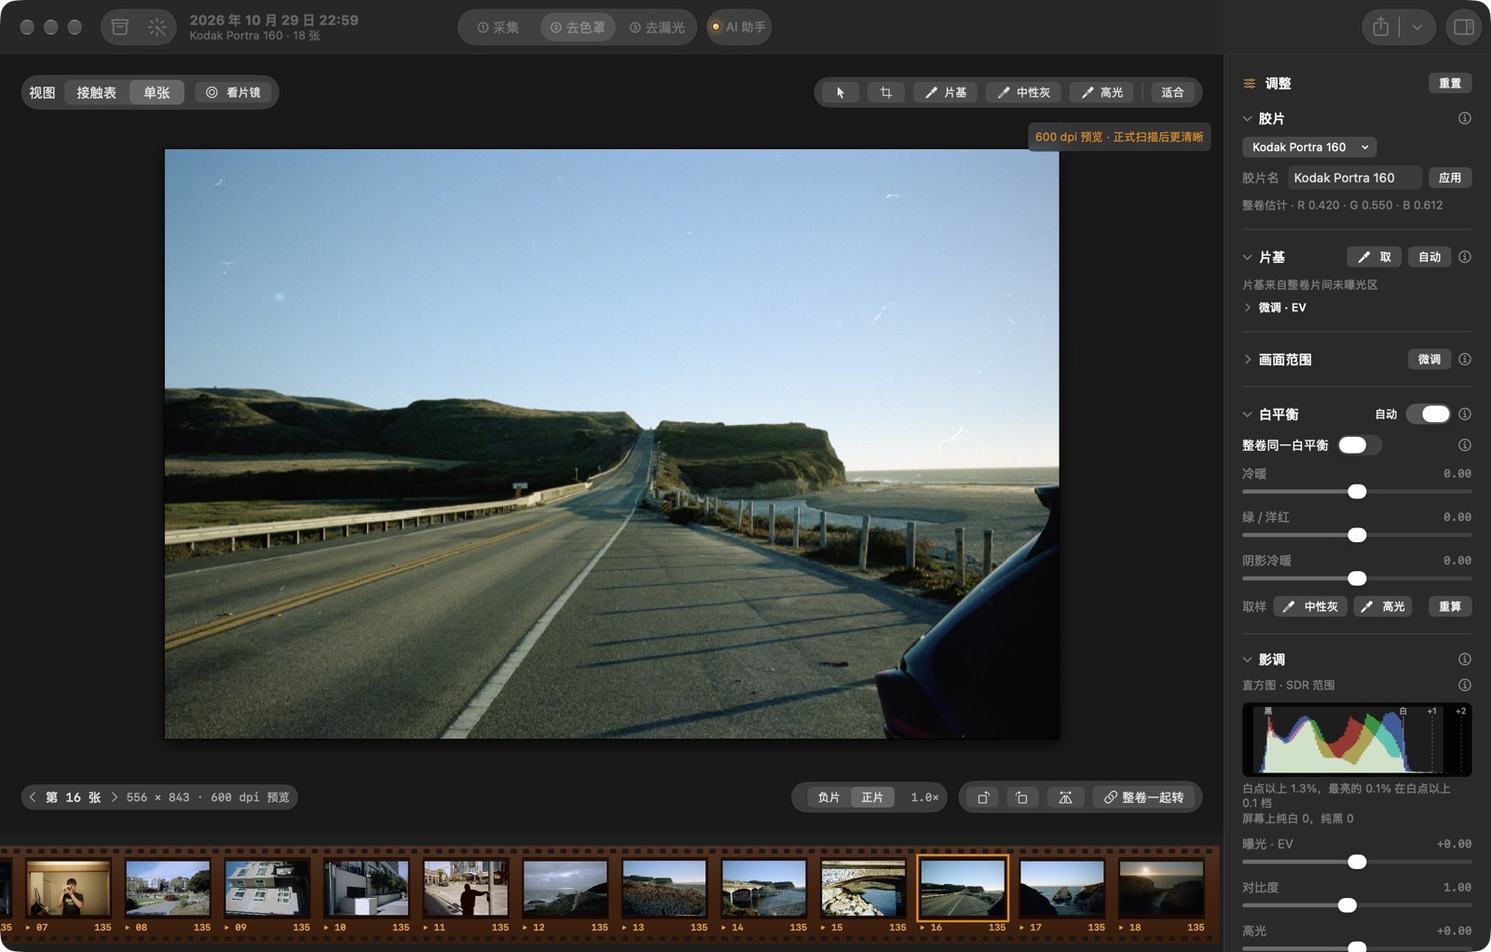
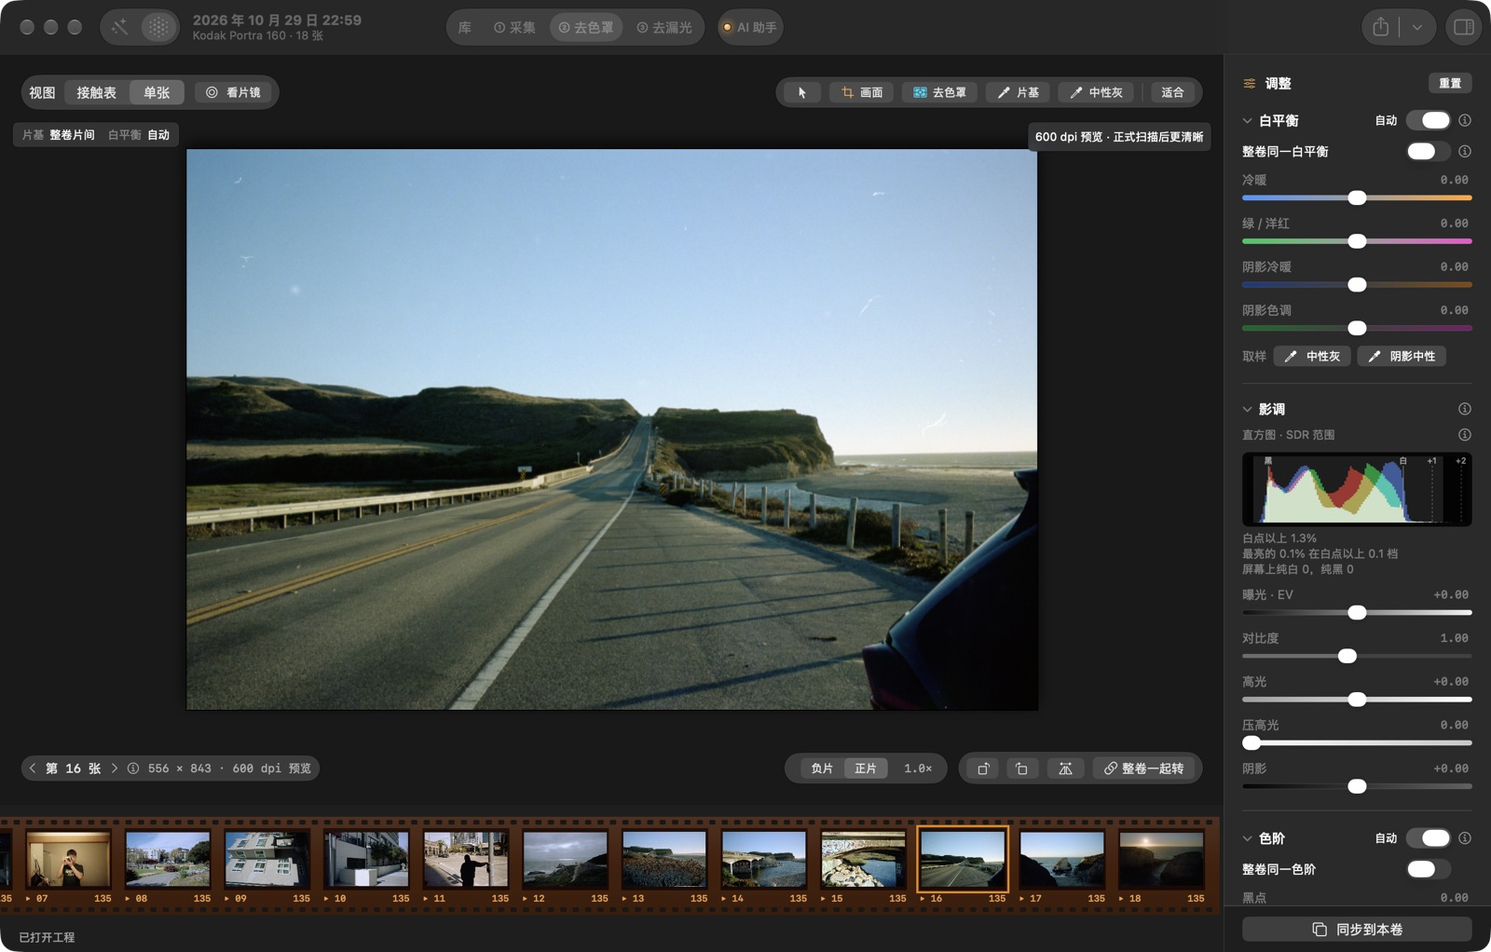
README with a picture for each feature; the screenshot tool takes them
- 一览: twelve features two to a row, each a picture and a line: the library, the film shelf, ① scanning, a copy roll's light table, ② with its inspector, the two crops, dust, the curves, the loupe, ③, the scan head and the shortcuts.
- Tools/Screenshots.swift also takes capture, copy-table (the Phoenix 6×6 copy roll), crop-region, dust, curves (a medium-contrast S for the shot), shelf and shortcuts; the pre-push hook retakes them with the rest.
- The README brought up to date: 0.18.7, the shelf in 新建工程 and the quick start, the tools (M for the de-masking region, no highlight picker), the inspector's sections and sync key, new shortcuts (⇧⌘D, ⌘I, ⇧⌘A, ⌘/).

diff --git a/Tools/Screenshots.swift b/Tools/Screenshots.swift
@@ -16,6 +16,9 @@ import UniformTypeIdentifiers
 /// - A shot that looks like the file already there (a mean difference under 1/255) leaves that
 ///   file as it is, so a rebuild does not rewrite every JPEG.
 /// - The close-ups (the scan head, the loupes, the crop glass) are drawn by hand and not taken here.
+/// - The README's features each have a picture: the film shelf, ① with the scanner, a copy roll's
+///   light table, the two crops, dust, the curves and the shortcuts, cut from the window where only
+///   a part of it says what the feature is. The copy roll is the user's Phoenix 6×6 roll.
 final class ShotWindow: NSWindow {
   override func constrainFrameRect(_ frameRect: NSRect, to screen: NSScreen?) -> NSRect { frameRect }
   override var canBecomeKey: Bool { true }
@@ -33,6 +36,8 @@ struct ShotFailure: Error { let message: String }
     "2026-10-29_225926_1C87", "2026-10-29_222948_DEF0", "2026-10-29_204224_C6F9",
     "2026-10-29_092428_7497", "2026-10-28_210643_FE21", "2026-10-28_200224_0E3A",
   ]
+  /// A copy roll from the A7R IV: Harman Phoenix II 200 in 6×6, with dust found on its first frame.
+  static let copyRoll = "2026-11-07_132152_9EA1"
   static let size = NSSize(width: 1440, height: 920)
 
   static func pump(_ seconds: Double) { RunLoop.main.run(until: Date().addingTimeInterval(seconds)) }
@@ -142,6 +147,18 @@ struct ShotFailure: Error { let message: String }
       model.status = text
       pump(0.4)
     }
+    /// The inspector's sections opened or folded for a shot (their own switches, in this tool's
+    /// standard defaults), and put back after.
+    func sections(_ open: [String: Bool]) -> () -> Void {
+      let was = open.keys.map { ($0, standard.object(forKey: "panelSection." + $0)) }
+      for (key, on) in open { standard.set(on, forKey: "panelSection." + key) }
+      return { for (key, value) in was { if let value { standard.set(value, forKey: "panelSection." + key) } else { standard.removeObject(forKey: "panelSection." + key) } } }
+    }
+    /// The middle of the window and the inspector beside it, below the window's own buttons.
+    func workArea(_ c: Picture.Columns) -> CGRect {
+      let right = c.inspector?.maxX ?? c.middle.maxX
+      return CGRect(x: c.middle.minX, y: 46, width: right - c.middle.minX, height: c.middle.height - 46)
+    }
     var changed = [String]()
     func save(_ image: CGImage, _ name: String, width: Int) throws {
       if try Picture.save(image, to: out.appendingPathComponent(name), width: width) { changed.append(name) }
@@ -159,6 +176,7 @@ struct ShotFailure: Error { let message: String }
     settle()
     let capturePanel = try Picture.capture(window, work: work)
     let captureColumns = Picture.columns(window)
+    try save(capturePanel, "capture.jpg", width: 1600)
 
     // ② taking the mask off: the light table, the loupe on 16.
     model.page = .convert
@@ -197,8 +215,61 @@ struct ShotFailure: Error { let message: String }
     model.showSingle(true)
     settle(2)
     try save(try Picture.capture(window, work: work), "single-view.jpg", width: 1600)
+
+    // The curves open over the frame's histograms, the sections above them folded.
+    let curvesBack = sections(["balance": false, "tone": false, "levels": false, "colour": false, "dust": false, "curves": true])
+    let keptCurves = model.settings.curves
+    let medium = CurveEditor.presets.first { $0.name == "中对比" }?.levels ?? []
+    model.change("曲线") { $0.curves = ToneCurves(rgb: CurveEditor.preset(medium)) }
+    settle(2)
+    let curves = try Picture.capture(window, work: work)
+    if let cut = Picture.crop(curves, to: workArea(Picture.columns(window)), window: window) { try save(cut, "curves.jpg", width: 1400) }
+    model.change("曲线") { $0.curves = keptCurves }
+    curvesBack()
+    settle()
+
+    // The keys, in their sheet.
+    model.showShortcuts = true
+    settle(1.5)
+    if let sheet = window.attachedSheet { try save(try Picture.capture(sheet, work: work), "shortcuts.jpg", width: 1400) }
+    model.showShortcuts = false
+    settle()
     model.showSingle(false)
     settle()
+
+    // A copy roll: its light table, the two crops on a frame, and the dust found on another.
+    let copyURL = library.appendingPathComponent(copyRoll).appendingPathComponent(AppModel.projectFile)
+    if files.fileExists(atPath: copyURL.path) {
+      model.loadProject(copyURL)
+      model.page = .convert
+      settle(3)
+      // Every frame converted, not the first few over black cells.
+      var waited = 0.0
+      while model.positivesLoading != nil && waited < 120 { pump(0.5); waited += 0.5 }
+      settle(2)
+      try save(try Picture.capture(window, work: work), "copy-table.jpg", width: 1600)
+      select("03")
+      model.showSingle(true)
+      settle(2)
+      model.preferences.showDustMarks = false
+      model.tool = .region
+      settle(1.5)
+      let region = try Picture.capture(window, work: work)
+      if let cut = Picture.crop(region, to: workArea(Picture.columns(window)), window: window) { try save(cut, "crop-region.jpg", width: 1400) }
+      model.tool = .select
+      model.preferences.showDustMarks = true
+      let dustBack = sections(["balance": false, "tone": false, "levels": false, "colour": false, "dust": true])
+      select("01")
+      settle(3)
+      let dust = try Picture.capture(window, work: work)
+      if let cut = Picture.crop(dust, to: workArea(Picture.columns(window)), window: window) { try save(cut, "dust.jpg", width: 1400) }
+      dustBack()
+      model.showSingle(false)
+      // Back to the sea roll for the library and the leak page.
+      model.loadProject(rollURL.appendingPathComponent(AppModel.projectFile))
+      model.page = .convert
+      settle(2)
+    }
 
     // The library, the window's first tab, of the shelf's rolls only; the library, the module and
     // the status line put back after.
@@ -208,6 +279,15 @@ struct ShotFailure: Error { let message: String }
     settle(3)
     guard model.page == .library else { throw ShotFailure(message: "库没有打开") }
     try save(try Picture.capture(window, work: work), "library.jpg", width: 1600)
+    // 新建工程's film shelf, over the library.
+    let keptProfiles = model.profiles
+    model.profiles = FilmProfile.builtins
+    model.askNewProject()
+    settle(3)
+    if let sheet = window.attachedSheet { try save(try Picture.capture(sheet, work: work), "shelf.jpg", width: 1400) }
+    model.askingNewProject = false
+    model.profiles = keptProfiles
+    settle()
     model.page = .convert
     model.setLibrary(library)
     model.status = status

diff --git a/README.md b/README.md
@@ -5,15 +5,16 @@
 <h1 align="center">Epson Scan plus</h1>
 
 <p align="center">
-  在 macOS 上扫描和转换彩色负片与反转片<br>
+  在 macOS 上扫描、翻拍和转换彩色负片与反转片<br>
   为 Epson Perfection V800 / V850 设计，也能用 Sony A7R IV 联机翻拍
 </p>
 
 <p align="center">
-  <b>0.12.0</b> · macOS 26 · Apple 芯片 · 全部在本机处理
+  <b>0.18.7</b> · macOS 26 · Apple 芯片 · 全部在本机处理
 </p>
 
 <p align="center">
+  <a href="#一览">一览</a> ·
   <a href="#快速开始">快速开始</a> ·
   <a href="#功能">功能</a> ·
   <a href="doc/interface.md">界面说明</a> ·
@@ -23,14 +24,43 @@
 
 ![主界面：② 去色罩，接触表放在灯箱上，看片镜放在所选的第 16 张上](doc/images/main-window.jpg)
 
-48-bit 线性采集、去色罩、整卷自动估计通道反差、在这台扫描仪上标定的胶片预设、接触表、灯箱上的 3D 看片镜，以及用参考图修复漏光。全部在本机处理；只有去漏光生成参考图时，在你确认后上传一张缩图。
+48-bit 线性扫描和 A7R IV 联机翻拍、去色罩、整卷自动估计通道反差、在这台设备上标定的胶片预设、除尘、接触表、灯箱上的 3D 看片镜，以及用参考图修复漏光。全部在本机处理；只有去漏光生成参考图时，在你确认后上传一张缩图。
 
 > [!NOTE]
 > 个人开发的实验工具，不是 Epson 官方产品。各版本的改动见[版本记录](doc/CHANGELOG.md)。
 
+## 一览
+
+<table>
+<tr>
+<td width="50%" valign="top"><img src="doc/images/library.jpg" width="100%" alt="库"><br><b>库</b>：每卷一页底片保存页，打开过的卷显示正片。同一批底片叠成一摞，能按卷名、胶片、画幅和备注搜索。</td>
+<td width="50%" valign="top"><img src="doc/images/shelf.jpg" width="100%" alt="新建工程的胶片架"><br><b>新建工程 · 胶片架</b>：100 款常见胶片的暗盒和 120 卷，照实物印刷，附厂家数据表。先选胶片、画幅、片边和片种。</td>
+</tr>
+<tr>
+<td valign="top"><img src="doc/images/capture.jpg" width="100%" alt="① 采集：V850 的整幅预览"><br><b>① V850 扫描</b>：48-bit 线性整幅预览，自动识别 135 和 120 的画面，按行合并扫描，扫完自动导出正片。</td>
+<td valign="top"><img src="doc/images/copy-table.jpg" width="100%" alt="翻拍卷的灯箱"><br><b>① A7R IV 翻拍</b>：直连相机的 PTP，支持 4 张或 16 张像素位移。翻拍的卷按画幅排在灯箱上，先去串色、再除以平场。</td>
+</tr>
+<tr>
+<td valign="top"><img src="doc/images/single-view.jpg" width="100%" alt="② 去色罩：单张和检查器"><br><b>② 去色罩</b>：除以片基，按整卷估计或本机标定的通道斜率拉齐三层反差。右栏按调色的顺序排：白平衡、影调、色阶、色彩，每一节都能单独复位。</td>
+<td valign="top"><img src="doc/images/crop-region.jpg" width="100%" alt="画面裁切和去色罩区域"><br><b>两种裁切</b>：琥珀色是显示和导出的画面；青色是算片基、白平衡和色阶的地方，自动避开片边、边字和齿孔。</td>
+</tr>
+<tr>
+<td valign="top"><img src="doc/images/dust.jpg" width="100%" alt="除尘"><br><b>除尘</b>：在负片上找灰尘、毛发和纤维，用旁边的胶片补上，补的地方只会变亮。工具栏的「除尘标出」开关画出或隐藏这些圆圈。</td>
+<td valign="top"><img src="doc/images/curves.jpg" width="100%" alt="曲线"><br><b>曲线</b>：和 Lightroom 一样的参数曲线和 RGB / 单通道点曲线，背后是正片的直方图；也能在照片上直接拖着调。</td>
+</tr>
+<tr>
+<td valign="top"><img src="doc/images/loupe-eyepiece.jpg" width="100%" alt="看片镜"><br><b>看片镜</b>：Pentax、Mamiya、Peak、Rodenstock、Schneider 式的 3D 看片镜，放在灯箱或单张上，按画幅算视场和放大倍率。</td>
+<td valign="top"><img src="doc/images/leak-page.jpg" width="100%" alt="③ 去漏光"><br><b>③ 去漏光</b>：用同一张照片的干净参考图修复红色 / 品红漏光。参考图只指导平滑的色彩校正，输出的像素都来自原片。</td>
+</tr>
+<tr>
+<td valign="top"><img src="doc/images/scan-head.jpg" width="100%" alt="扫描头"><br><b>扫描头</b>：正式扫描时，3D 的扫描头按真实进度从画面上走过，接触表和单张上都看得到。</td>
+<td valign="top"><img src="doc/images/shortcuts.jpg" width="100%" alt="键盘快捷键"><br><b>键盘快捷键</b>：⌘/ 打开一览，包括画面上不在菜单里的单个字母键。</td>
+</tr>
+</table>
+
 ## 目录
 
-- [功能](#功能)
+- [一览](#一览) · [功能](#功能)
 - [系统要求](#系统要求) · [安装与更新](#安装与更新) · [快速开始](#快速开始)
 - [界面一览](#界面一览)（完整的见[界面说明](doc/interface.md)）
 - [库](#库) · [去漏光](#去漏光) · [AI 助手（MCP）](#ai-助手mcp)
@@ -39,14 +69,15 @@
 
 ## 功能
 
-- **库和三个模块**：顶栏中间的分段按钮最左边是库，后面是 ① 采集（V850 扫描、A7R IV 翻拍）、② 去色罩、③ 去漏光。App 打开时在库里，先「新建工程」、双击打开一卷，或「导入…」照片（相机 RAW 导成一卷翻拍），之后才能用 ① ② ③。扫描、翻拍和导入的每一卷都自动放进库里；库是一个档案柜，每卷是一页底片保存页，打开过的卷显示正片，其余显示负片原样。见下文[库](#库)。
+- **库和三个模块**：顶栏中间的分段按钮最左边是库，后面是 ① 采集（V850 扫描、A7R IV 翻拍）、② 去色罩、③ 去漏光。App 打开时在库里，先「新建工程」（在胶片架上选胶片、画幅、片边和片种）、双击打开一卷，或「导入…」照片（相机 RAW 导成一卷翻拍），之后才能用 ① ② ③。扫描、翻拍和导入的每一卷都自动放进库里；库是一个档案柜，每卷是一页底片保存页，打开过的卷显示正片，其余显示负片原样。见下文[库](#库)。
 - **A7R IV 联机翻拍**：直连相机自己的 PTP（也可以改用 Sony Camera Remote SDK）拍摄，实时取景和对焦检查，读出无压缩 RAW；RGB 光源翻拍时先去串色、再除以平场；像素位移（4 张或 16 张，App 连着就把相机设好，取景不停）一次快门收成一组，合成一张再转换。
 - **48-bit 采集**：内置独立的 SANE epson2 采集进程，绕过 ICA 驱动的 24-bit 限制；线性 RGB16，扫描仪不做除尘、锐化或自动调色。见[扫描仪接口](doc/scanner.md)。
 - **整幅预览**：600 dpi（约 80 秒）或 150 dpi（约 50 秒），自动识别 135 和 120 画面，可手动调整或补画。
 - **反转片**：① 采集 · 扫描仪的「胶片」选「反转片（正片）」，扫幻灯片和正片条：按透光的地方识别画面，读数直接作画面，不去色罩、不用通道斜率，默认保留片子本来的颜色。见[扫描仪接口](doc/scanner.md#反转片)。
 - **去色罩**：扫描值 → 片基相对密度 → 各通道斜率 → 白平衡与色阶 → 手动调整 → sRGB。斜率依次取本机标定预设、整卷自动估计、Kodak 数据表。见[胶片配置、转换与颜色](doc/film-and-color.md)。
-- **调整**：片基微调、白平衡（含阴影冷暖）、色阶、曝光、对比度、高光、压高光、阴影、饱和度、色彩降噪、柔和的暗部和高光、RGB 与单通道曲线，以及按实测 MTF 的锐化。每张单独保存，可同步旋转和镜像到整卷；所有编辑都能撤销和重做。
-- **除尘**：在负片上找灰尘、毛发和纤维，用周围的胶片补上，颗粒从附近一块干净的胶片借来，补的地方只减不增密度。补在去色罩之前，改调色不用重做。单张上用圆圈标出，点一下就留下或去掉，也可以手动点。只用于 16 位的负片（扫描、翻拍）。见[除尘](doc/negative-conversion.md#除尘)。
+- **调整**：片基微调、白平衡（含阴影冷暖和阴影色调）、色阶、曝光、对比度、高光、压高光、阴影、饱和度、色彩降噪、柔和的暗部和高光、RGB 与单通道曲线，以及按实测 MTF 的锐化。每张单独保存，「同步到本卷」固定在右栏底部；每一节调过时标题旁有 ⟲ 单独恢复；所有编辑都能撤销和重做。
+- **画面裁切和去色罩区域**：两种框，两种颜色。琥珀色的「画面」是显示和导出的范围；青色的「去色罩区域」是算片基、白平衡和色阶用的地方，跟随画面时自动避开片边、边字和齿孔。
+- **除尘**：在负片上找灰尘、毛发和纤维，用周围的胶片补上，颗粒从附近一块干净的胶片借来，补的地方只减不增密度。补在去色罩之前，改调色不用重做。单张上用圆圈标出（工具栏的「除尘标出」开关，⇧⌘D），点一下就留下或去掉，也可以手动点。只用于 16 位的负片（扫描、翻拍）。见[除尘](doc/negative-conversion.md#除尘)。
 - **接触表与看片镜**：接触表放在 Metal 渲染的铝框灯箱上；Pentax 式 5.5×、Mamiya 式 4×、Peak 式 8×（135），Rodenstock 式 3×（6×6），或看局部的 Schneider-Kreuznach 式 10× 看片镜放在画面上放大细看，接触表和单张视图都能用。接触表图片可按预览直接导出，或先以 1200 dpi 扫描再导出。
 - **去漏光**：第三个模块，移植自 FilmLightLab 1.5.0 的修订 9 匹配算法。用同一张照片的干净参考图（图像模型生成或自己导入）在本机修复红色 / 品红漏光，参考图只指导平滑的色彩校正，输出像素都来自原片；本卷的照片按当前调色直接处理，不用先导出。见下文[去漏光](#去漏光)。
 - **导出**：TIFF 16 / 8-bit、PNG 16-bit、JPEG；sRGB、Display P3、Adobe RGB 或 ProPhoto RGB，嵌入 ICC 配置文件；写入胶片、片号、扫描仪和扫描日期等元数据，文件名可按模板生成。扫完的正片自动导出到工程的 `Exports`，未反相的原始负片保留在 `Originals`。
@@ -69,10 +100,10 @@
 
 ## 快速开始
 
-1. 退出 Epson Scan 2、图像捕捉等占用扫描仪的程序，打开 Epson Scan plus。App 打开时在库里，点「新建工程」进入 ① 采集。左上角指示灯变绿、① 采集 · V850 的左栏显示「48-bit RGB」即为就绪。
+1. 退出 Epson Scan 2、图像捕捉等占用扫描仪的程序，打开 Epson Scan plus。App 打开时在库里，点「新建工程」，在胶片架上选这一卷的胶片、画幅、片边和片种（之后在 ② 也能改），点「开始」进入 ① 采集。左上角指示灯变绿、① 采集 · V850 的左栏显示「48-bit RGB」即为就绪。
 2. 在 ① 采集 · V850 的左栏选择正式扫描分辨率（默认 2400 dpi）和预览分辨率，点「预览」。
 3. 预览完成后程序自动识别画面，画框依次落到接触表上，第一张选中；点一下画面进入单张。检查画框，必要时用裁切工具调整，或回到接触表用画框工具补画。
-4. 到 ② 去色罩，在检查器最上面的「胶片名」输入胶片名称（如 Portra 160），回车。已有本机标定的「· V850」预设时自动选用，没有时按整卷自动估计。
+4. 到 ② 去色罩。胶片已经在新建工程时选好，左栏「胶片」里随时可以从胶片架换；有本机标定的「· V850」预设时在「预设」菜单里选它，没有时按整卷自动估计。
 5. 调整画面后，回到 ①，用「扫描所选」扫描勾选的画面；扫完的正片自动导出到工程的 `Exports`。
 6. 需要时在 ② 工具栏的「导出」菜单里导出接触表。
 
@@ -82,12 +113,12 @@
 
 | # | 区域 | 做什么 |
 |---|---|---|
-| 1 | 顶栏 | 库和模块切换（库 · ① 采集 · ② 去色罩 · ③ 去漏光）、本页的主要操作（预览、扫描、导出）、② 标题旁的「自动调整」和 AI 助手 |
-| 2 | 左侧面板 | ① 里是扫描仪或相机的设置；② 里是预设标定和导出设置，默认收起 |
-| 3 | 工作区工具栏 | 接触表 / 单张、看片镜，以及选择、画框、取片基、中性灰、高光几个工具 |
+| 1 | 顶栏 | 库和模块切换（库 · ① 采集 · ② 去色罩 · ③ 去漏光）、本页的主要操作（预览、扫描、导出）、② 标题旁的「自动调整」「除尘标出」和 AI 助手 |
+| 2 | 左侧面板 | ① 里是扫描仪或相机的设置；② 里是胶片、片基和画面范围，以及预设标定和导出设置，默认收起 |
+| 3 | 工作区工具栏 | 接触表 / 单张、看片镜，以及选择、画面裁切、去色罩区域、取片基、中性灰几个工具 |
 | 4 | 灯箱上的接触表 | 整幅预览或一页页的接触表，标出画框和编号 |
 | 5 | 看片镜 | 放在画面上放大细看，接触表和单张都能用 |
-| 6 | 右侧面板 | ① 里是这一卷的信息；② 里是检查器：胶片、片基、白平衡、影调、色阶、色彩、曲线 |
+| 6 | 右侧面板 | ① 里是这一卷的信息；② 里是检查器：白平衡、影调、色阶、色彩、除尘、曲线，底部是「同步到本卷」 |
 | 7 | 勾选与胶片条 | 决定批量扫描和导出哪些画面 |
 | 8 | 状态栏 | 当前操作和结果、扫描进度 |
 | 9 | 接触表显示 | 全卷旋转、水平镜像，负片 / 正片 |
@@ -106,7 +137,7 @@
 
 三样都还没做时，① 采集、② 去色罩、③ 去漏光点了也不会切过去。库是一个档案柜，每卷是一页底片保存页：
 
-- **标签**：顶上的纸标签写卷名（没起名时写开始的时间）、胶片、张数、全分辨率的张数和已导出的张数。
+- **标签**：顶上的纸标签写卷名（没起名时写开始的时间）、胶片、画幅、张数、已导出的张数；扫描卷只正式扫了一部分时，还写全分辨率的张数。
 - **索引签**：右上角的索引签表示来源：扫描、翻拍或导入。旧版图库里的卷注明「旧版」。
 - **画面**：透明袋里每条六格。打开过的卷显示 App 渲染的正片；其余的显示负片原样，带橙色色罩。竖放的画面横过来放，和灯箱上一样。
 - **同一批底片叠成一摞**：同一卷胶片扫了几次（张数一样，前三张一样），这几卷叠在一起，只露最新的一卷，索引签上写着一共几卷，下面露出几页的边。右键「摊开同一批底片的 N 卷」单独看它们，页眉的「‹」回到整个库；「…」菜单里可以关掉叠放。判断用每卷前三张的差值哈希（画面缩成 9 × 8 的灰度，比较相邻两格的明暗），正片和负片也认得出是同一张；要三张都几乎一样才算同一批。
@@ -173,6 +204,8 @@ Epson Scan plus 可以作为 [MCP](https://modelcontextprotocol.io) 服务器，
 
 ## 快捷键
 
+App 里「帮助」菜单的「键盘快捷键」（⌘/）也列着这些。
+
 | 按键 | 作用 |
 |---|---|
 | ⇧⌘P | 预览 |
@@ -184,10 +217,13 @@ Epson Scan plus 可以作为 [MCP](https://modelcontextprotocol.io) 服务器，
 | ⌘O / ⇧⌘O | 导入 / 打开工程 |
 | ⌘1 | 接触表 / 单张 |
 | ← / → | 上一张 / 下一张（单张视图和接触表上都可以，接触表跟着翻页） |
-| V / C / B / N / W | 选择、画框、片基、中性灰、高光（画面有焦点时；片基、中性灰、高光只在 ② 去色罩） |
+| V / C / M / B / N | 选择、画面裁切、去色罩区域、片基、中性灰（画面有焦点时；去色罩区域、片基、中性灰只在 ② 去色罩） |
 | Z | 放上 / 收起看片镜（画面有焦点时） |
 | ⌫ | 删除所选画面；取 IT8 或中性点时撤回上一个点 |
 | ⌘L | 看片镜 |
+| ⇧⌘D | 除尘标出 |
+| ⌘I | 照片信息（EXIF） |
+| ⇧⌘A | 自动调整这张 |
 | ⌘R / ⇧⌘R | 顺时针 / 逆时针旋转（接触表上整卷一起转） |
 | ⌘E / ⇧⌘E | 导出当前 / 导出勾选 |
 | ⌥⌘E | 导出接触表 |
@@ -195,6 +231,8 @@ Epson Scan plus 可以作为 [MCP](https://modelcontextprotocol.io) 服务器，
 | ⌘, | 回到 ① 采集，打开左栏：当前来源（扫描仪或相机）的设置（有工程以后） |
 | ⌘ + 滚动，或捏合 | 缩放（单张视图） |
 | Esc | 退出当前工具并复位缩放 |
+| 空格 | 拍摄（① 翻拍的取景） |
+| ⌘/ | 键盘快捷键一览 |
 
 ## 工程文件
 
